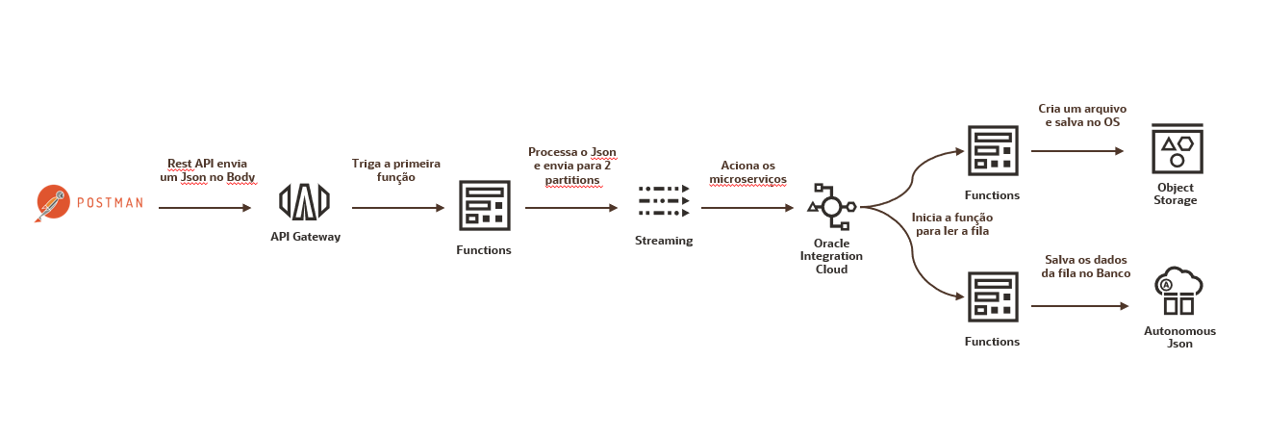
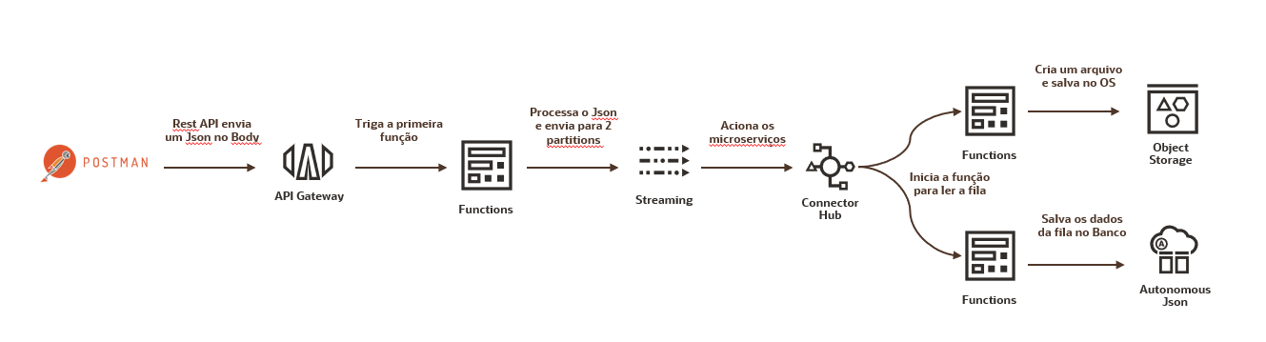
Update Fluxo de Dados

Changed region(s): [[0.0308, 0.3216, 0.955, 0.9064], [0.7085, 0.1754, 0.955, 0.4971], [0.7701, 0.848, 0.8009, 0.9064]]

diff --git a/README.md b/README.md
@@ -4,14 +4,22 @@ Exemplo de Arquitetura Orientada a Eventos utilizando o Stack Cloud Native do OC
 
 ## Resumo
 
-Exemplo de arquitetura Cloud Native orientada a eventos utilizando API Gateway + Functions + Streaming + Connetor Hub
+Arquitetura Cloud Native orientada a eventos utilizando API Gateway + Functions + Streaming + Connetor Hub. É possivel através desses componentes criar um fluxo de processamento de dados utilizando funções serveless e filas.
 
 ## Arquitetura
 
 ![Arquitetura](images/arquitetura.png)
 
-## Fluxo de dados
+### Fluxo de dados
 
-- A função producer é trigada através do API Gateway e gera dados nas duas filas NoSQL e File.
+- O fluxo se inicia com uma chamada API, onde é utilizado o API Gateway para expor uma função do Functions
 
-- Connetor Hub dispara as funções quando existe um ítem na fila, a função consumernosql salva os dados em um Autonomous Json e a função consumer grava os dados em um arquivo no Object Storage.
+- A função é um producer Kafka que recebe os dados da chamada API e joga as informações para cada uma das filas correspondentes do Streaming.
+
+- São utilizadas duas filas, NoSQL e File.
+
+- Connector Hub service trabalha monitorando as filas do Streaming como um Kafka consumer, e quando identifica um novo registro na fila chama a função correspondente de cada uma.
+
+- Na fila NoSQL é acionada a função no Functions que salva os dados que estão na fila dentro do Autonomous Json
+
+- Na fila File é iniciada uma função no Functions que cria um arquivo com os dados e salva esse arquivo em um Object Storage
